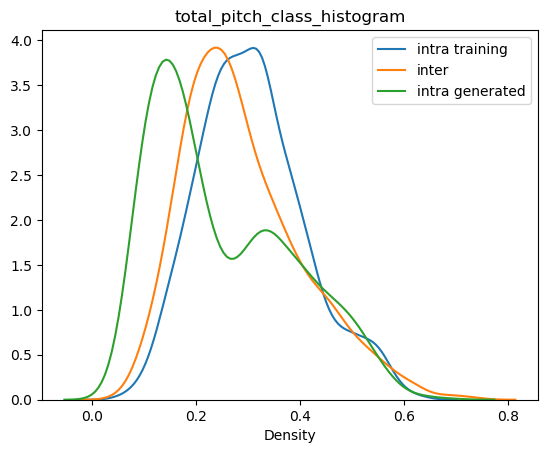
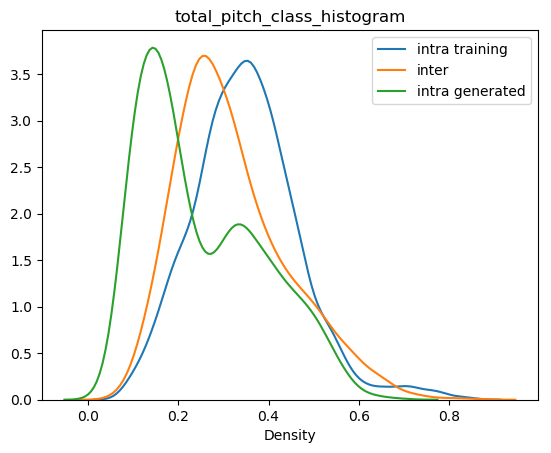
add comparison between folk and hook

diff --git a/folk_hook.py b/folk_hook.py
@@ -1,0 +1,35 @@
+import output
+import os
+import glob
+import numpy as np
+import random
+from sklearn.model_selection import LeaveOneOut
+
+from main import main
+
+num_samples = 100
+
+globstr1 = 'D:\\data\\folkdataset\\4_mono\\*.mid'
+set1 = glob.glob(
+    globstr1)
+random.shuffle(set1)
+set1 = set1[:num_samples]
+set1name = 'folk'
+print 'we have %s samples' % len(set1)
+num_samples = len(set1)
+
+globstr2 = 'D:\\data\\hooktheory_dataset\\4_mono\\*.mid'
+set2 = glob.glob(globstr2)
+random.shuffle(set2)
+set2 = set2[:num_samples]
+
+set2name = 'hook theory'
+
+dstfolder = 'comparison_folk_hook'
+if not os.path.exists(dstfolder):
+    os.mkdir(dstfolder)
+
+with open(os.path.join(dstfolder, '0info.txt'), 'w') as f:
+    f.writelines("Comparison between %s and %s" %(globstr1, globstr2))
+
+main(set2, set1, set2name, set1name, dstfolder) # order matters in KL

diff --git a/main.py b/main.py
@@ -35,6 +35,7 @@ from sklearn.model_selection import LeaveOneOut
 
 def main(set1, set2, set1name, set2name, dstfolder):
 
+    num_samples = len(set1)
     set1_eval = {
         'total_used_pitch': np.zeros((num_samples, 1)),
         'total_pitch_class_histogram': np.zeros((num_samples, 12)),
